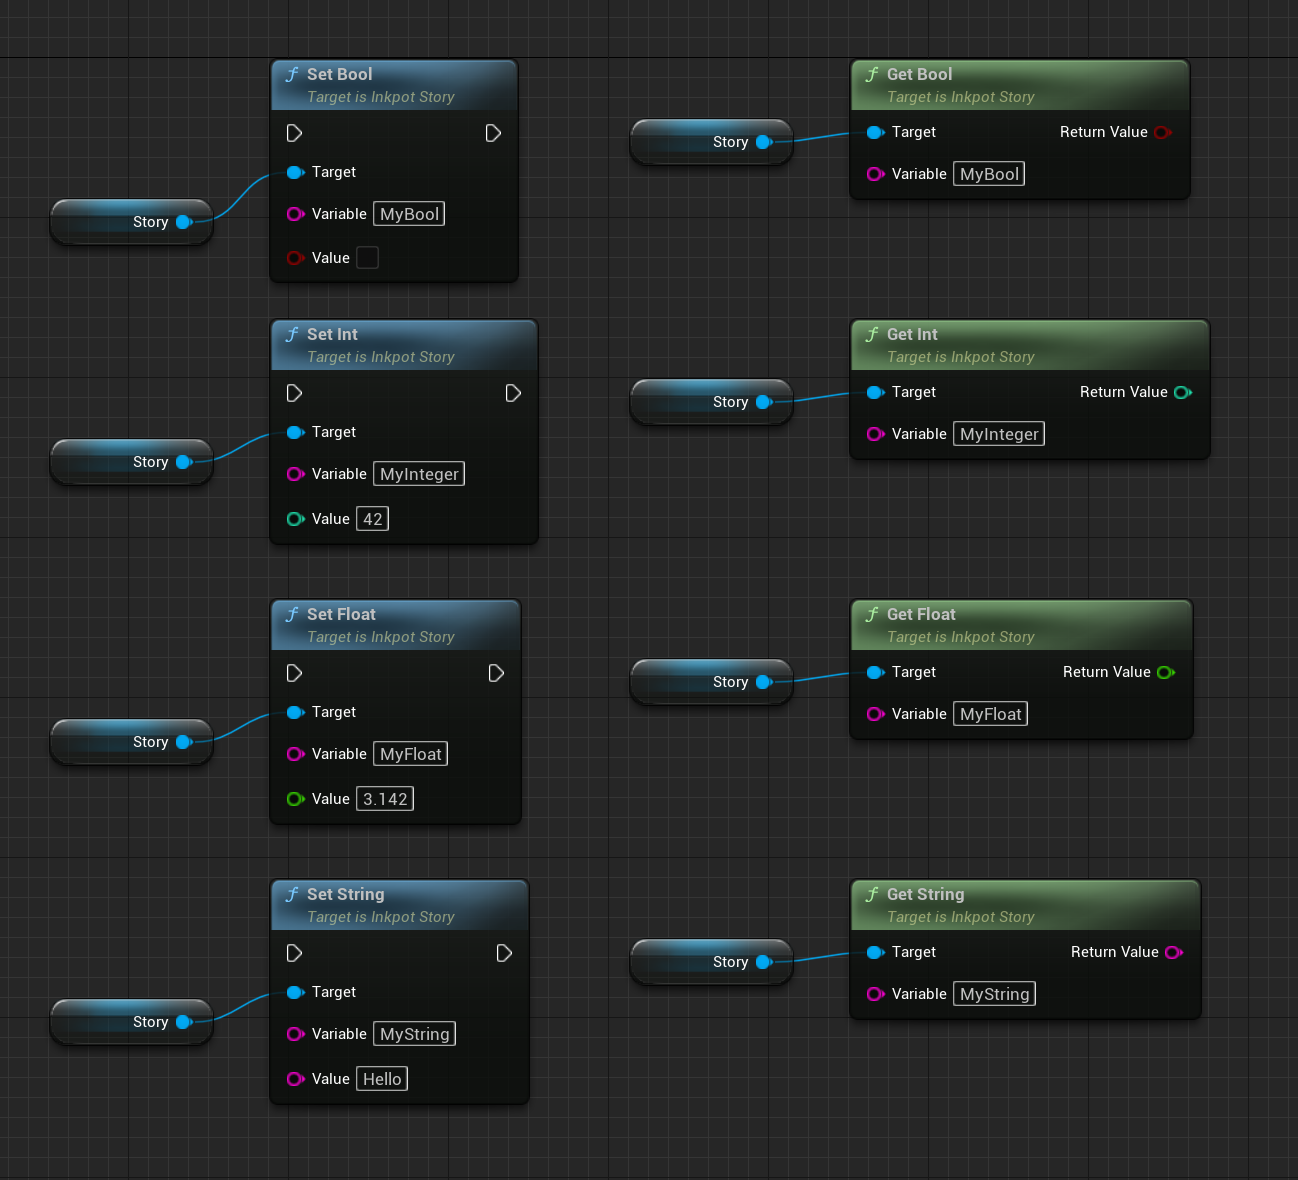
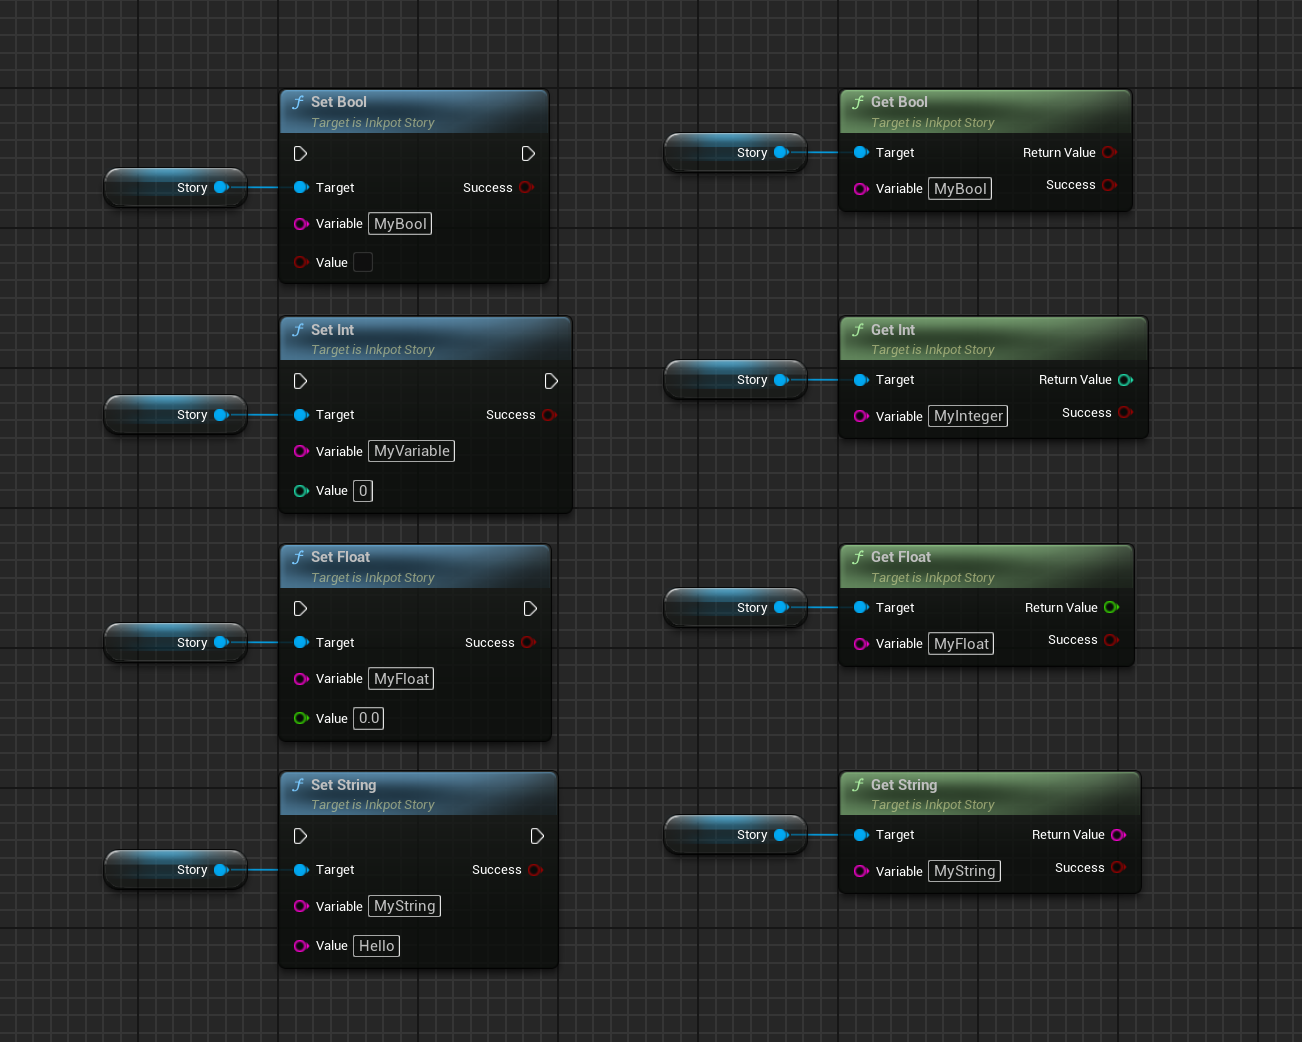
updated inkpot plugin, updated docs for new variable getters and setters

diff --git a/InkpotDemo/Plugins/Inkpot/Source/Inkpot/Private/Inkpot/InkpotStory.cpp b/InkpotDemo/Plugins/Inkpot/Source/Inkpot/Private/Inkpot/InkpotStory.cpp
@@ -229,81 +229,86 @@ int32 UInkpotStory::GetAliveFlowCount()
 	return count; 
 }
 
-void UInkpotStory::SetValue(const FString &InVariable, FInkpotValue InValue)
+void UInkpotStory::SetValue(const FString &InVariable, FInkpotValue InValue, bool &OutSuccess )
 {
 	TSharedPtr<Ink::FVariableState> variableState = StoryInternal->GetVariablesState();
-	variableState->SetVariable( InVariable, Ink::FValue::Create(**InValue) );
+	OutSuccess = variableState->SetVariable( InVariable, Ink::FValue::Create(**InValue) );
 }
 
-FInkpotValue UInkpotStory::GetValue(const FString &InVariable)
+void UInkpotStory::GetValue(const FString &InVariable, FInkpotValue &OutReturnValue, bool &OutSuccess )
 {
 	TSharedPtr<Ink::FVariableState> variableState = StoryInternal->GetVariablesState();
 	TSharedPtr<Ink::FObject> variableObj = variableState->GetVariable( InVariable );
 	TSharedPtr<Ink::FValue> variable = StaticCastSharedPtr<Ink::FValue>( variableObj );
 	Ink::FValueType value;
 	if(variable.IsValid())
+	{
 		value = variable->GetValueObject();
+		OutSuccess = true;
+	}
 	else
+	{
 		INKPOT_ERROR("Could not get value of variable '%s'", *InVariable );
-	return FInkpotValue(value);
+		OutSuccess = false;
+	}
+	OutReturnValue = FInkpotValue(value);
 }
 
-void UInkpotStory::SetBool(const FString &InVariable, bool bInValue)
+void UInkpotStory::SetBool(const FString &InVariable, bool bInValue, bool &OutSuccess )
 {
 	TSharedPtr<Ink::FVariableState> variableState = StoryInternal->GetVariablesState();
-	variableState->SetVariable( InVariable, MakeShared<Ink::FValueBool>( bInValue ) );
+	OutSuccess = variableState->SetVariable( InVariable, MakeShared<Ink::FValueBool>( bInValue ) );
 }
 
-bool UInkpotStory::GetBool(const FString &InVariable)
+void UInkpotStory::GetBool(const FString &InVariable, bool &OutReturnValue, bool &OutSuccess )
 {
-	bool rval;
-	bool success = GetVariable<bool, Ink::FValueBool>(InVariable, Ink::EValueType::Bool, rval );
-	return rval;
+	OutSuccess = GetVariable<bool, Ink::FValueBool>(InVariable, Ink::EValueType::Bool, OutReturnValue );
 }
 
-void UInkpotStory::SetInt(const FString &InVariable, int32 InValue)
+void UInkpotStory::SetInt(const FString &InVariable, int32 InValue, bool &OutSuccess )
 {
 	TSharedPtr<Ink::FVariableState> variableState = StoryInternal->GetVariablesState();
-	variableState->SetVariable( InVariable, MakeShared<Ink::FValueInt>( InValue ) );
+	OutSuccess = variableState->SetVariable( InVariable, MakeShared<Ink::FValueInt>( InValue ) );
 }
 
-int32 UInkpotStory::GetInt(const FString &InVariable)
+void UInkpotStory::GetInt(const FString &InVariable, int32 &OutValue ,  bool &OutSuccess )
 {
-	int32 rval;
-	bool success = GetVariable<int32, Ink::FValueInt>(InVariable, Ink::EValueType::Int, rval );
-	return rval;
+	OutSuccess = GetVariable<int32, Ink::FValueInt>(InVariable, Ink::EValueType::Int, OutValue );
 }
 
-void UInkpotStory::SetFloat(const FString &InVariable, float InValue )
+void UInkpotStory::SetFloat(const FString &InVariable, float InValue, bool &OutSuccess )
 {
 	TSharedPtr<Ink::FVariableState> variableState = StoryInternal->GetVariablesState();
-	variableState->SetVariable( InVariable, MakeShared<Ink::FValueFloat>(InValue));
+	OutSuccess = variableState->SetVariable( InVariable, MakeShared<Ink::FValueFloat>(InValue));
 }
 
-float UInkpotStory::GetFloat(const FString &InVariable)
+void UInkpotStory::GetFloat(const FString &InVariable, float &OutReturnValue, bool &OutSuccess )
 {
-	float rval;
-	bool success = GetVariable<float, Ink::FValueFloat>(InVariable, Ink::EValueType::Float, rval );
-	return rval;
+	OutSuccess = GetVariable<float, Ink::FValueFloat>(InVariable, Ink::EValueType::Float, OutReturnValue );
 }
 
-void UInkpotStory::SetString(const FString &InVariable, const FString &InValue )
+void UInkpotStory::SetString(const FString &InVariable, const FString &InValue, bool &OutSuccess )
 {
 	TSharedPtr<Ink::FVariableState> variableState = StoryInternal->GetVariablesState();
-	variableState->SetVariable( InVariable, MakeShared<Ink::FValueString>(InValue) );
+	OutSuccess = variableState->SetVariable( InVariable, MakeShared<Ink::FValueString>(InValue) );
 }
 
-FString UInkpotStory::GetString( const FString& InVariable )
+void UInkpotStory::GetString( const FString& InVariable, FString &OutReturnValue, bool &OutSuccess )
 {
-	FString rval;
-	bool success = GetVariable<FString, Ink::FValueString>(InVariable, Ink::EValueType::String, rval );
-	return rval;
+	OutSuccess = GetVariable<FString, Ink::FValueString>(InVariable, Ink::EValueType::String, OutReturnValue );
 }
 
-void UInkpotStory::SetEmpty(const FString &InVariable)
+void UInkpotStory::SetEmpty(const FString &InVariable, bool &OutSuccess )
 {
 	TSharedPtr<Ink::FVariableState> variableState = StoryInternal->GetVariablesState();
-	variableState->SetVariable( InVariable, MakeShared<Ink::FValue>() );
+	OutSuccess  = variableState->SetVariable( InVariable, MakeShared<Ink::FValue>() );
+}
+
+bool UInkpotStory::IsVariableDefined( const FString& InVariable )
+{
+	TSharedPtr<Ink::FVariableState> variableState = StoryInternal->GetVariablesState();
+	TSharedPtr<Ink::FObject> variable = variableState->GetVariable(  InVariable );
+	return variable.IsValid();
 }
 
 int32 UInkpotStory::GetVariableKeys( TArray<FString> &OutKeys )
@@ -773,3 +778,4 @@ void UInkpotStory::SetStorySeed( int Seed )
 {
 	StoryInternal->GetStoryState()->SetStorySeed( Seed );
 }
+

diff --git a/InkpotDemo/Plugins/Inkpot/Source/Inkpot/Public/Inkpot/InkpotStory.h b/InkpotDemo/Plugins/Inkpot/Source/Inkpot/Public/Inkpot/InkpotStory.h
@@ -91,37 +91,40 @@ public:
 	void ChoosePathString( const FString &Path, const TArray<FInkpotValue> &Values );
 
 	UFUNCTION(BlueprintCallable, Category="Inkpot|Story")
-	void SetValue(const FString &Variable, FInkpotValue Value);
+	void SetValue(const FString &Variable, FInkpotValue Value, bool &Success );
 
 	UFUNCTION(BlueprintCallable, Category="Inkpot|Story")
-	FInkpotValue GetValue(const FString &Variable);
+	void GetValue(const FString &Variable, FInkpotValue &ReturnValue, bool &Success );
 
 	UFUNCTION(BlueprintCallable, Category="Inkpot|Story")
-	void SetBool(const FString &Variable, bool bValue);
+	void SetBool(const FString &Variable, bool bValue, bool &Success );
 
 	UFUNCTION(BlueprintPure, Category="Inkpot|Story")
-	bool GetBool(const FString &Variable);
+	void GetBool(const FString &Variable, bool &ReturnValue, bool &Success );
 
 	UFUNCTION(BlueprintCallable, Category="Inkpot|Story")
-	void SetInt(const FString &Variable, int32 Value);
+	void SetInt(const FString &Variable, int32 Value, bool &Success );
 
 	UFUNCTION(BlueprintPure, Category="Inkpot|Story")
-	int32 GetInt(const FString &Variable);
+	void GetInt(const FString &Variable, int32 &ReturnValue, bool &Success );
 
 	UFUNCTION(BlueprintCallable, Category="Inkpot|Story")
-	void SetFloat( const FString& Variable, float Value );
+	void SetFloat( const FString& Variable, float Value, bool &Success );
 
 	UFUNCTION(BlueprintPure, Category="Inkpot|Story")
-	float GetFloat( const FString& Variable );
+	void GetFloat( const FString& Variable, float &ReturnValue, bool &Success );
 
 	UFUNCTION(BlueprintCallable, Category="Inkpot|Story")
-	void SetString( const FString& Variable, const FString& Value );
+	void SetString( const FString& Variable, const FString& Value, bool &Success );
 
 	UFUNCTION(BlueprintPure, Category="Inkpot|Story")
-	FString GetString( const FString& Variable );
+	void GetString( const FString& Variable, FString &ReturnValue, bool &Success );
 
 	UFUNCTION(BlueprintCallable, Category="Inkpot|Story")
-	void SetEmpty( const FString& Variable );
+	void SetEmpty( const FString& Variable, bool &Success );
+
+	UFUNCTION(BlueprintPure, Category="Inkpot|Story")
+	bool IsVariableDefined( const FString& Variable );
 
 	UFUNCTION(BlueprintCallable, Category="Inkpot|Story")
 	void SetOnVariableChange( UPARAM(DisplayName="Event") FOnInkpotVariableChange Delegate, const FString &Variable );

diff --git a/InkpotDemo/Plugins/Inkpot/Source/InkpotEditor/Private/Test/InkPlusPlusTest.cpp b/InkpotDemo/Plugins/Inkpot/Source/InkpotEditor/Private/Test/InkPlusPlusTest.cpp
@@ -937,7 +937,12 @@ bool FInkTests::RunTest(const FString& InkTestName)
 											int32 intValue;
 											if ((*setVariableObject)->TryGetNumberField(VARIABLE_VALUE, intValue))
 											{
-												story->SetInt(variableName, intValue);
+												bool success;
+												story->SetInt(variableName, intValue, success );
+												if (!success)
+												{
+													INKPOT_ERROR("%s : Unable to set integer variable %s.", *InkTestName, *variableName);
+												}
 											}
 										}
 										else if (variableType.Equals("Float"))
@@ -945,7 +950,12 @@ bool FInkTests::RunTest(const FString& InkTestName)
 											double floatValue;
 											if ((*setVariableObject)->TryGetNumberField(VARIABLE_VALUE, floatValue))
 											{
-												story->SetFloat( variableName, static_cast<float>(floatValue));
+												bool success;
+												story->SetFloat( variableName, static_cast<float>(floatValue), success);
+												if (!success)
+												{
+													INKPOT_ERROR("%s : Unable to set floating point variable %s.", *InkTestName, *variableName);
+												}
 											}
 										}
 										else if (variableType.Equals("String"))
@@ -953,7 +963,12 @@ bool FInkTests::RunTest(const FString& InkTestName)
 											FString stringValue;
 											if ((*setVariableObject)->TryGetStringField(VARIABLE_VALUE, stringValue))
 											{
-												story->SetString(variableName, stringValue);
+												bool success;
+												story->SetString(variableName, stringValue, success);
+												if (!success)
+												{
+													INKPOT_ERROR("%s : Unable to set string variable %s.", *InkTestName, *variableName);
+												}
 											}
 										}
 										else if (variableType.Equals("null"))
@@ -961,7 +976,12 @@ bool FInkTests::RunTest(const FString& InkTestName)
 											FString stringValue;
 											if ((*setVariableObject)->TryGetStringField(VARIABLE_VALUE, stringValue))
 											{
-												story->SetEmpty(variableName);
+												bool success;
+												story->SetEmpty(variableName, success );
+												if (!success)
+												{
+													INKPOT_ERROR("%s : Unable to unset variable %s.", *InkTestName, *variableName);
+												}
 											}
 										}
 									}

diff --git a/InkpotDemo/Plugins/Inkpot/Source/InkPlusPlus/Private/Ink/VariableState.cpp b/InkpotDemo/Plugins/Inkpot/Source/InkPlusPlus/Private/Ink/VariableState.cpp
@@ -90,27 +90,28 @@ TSharedPtr<Ink::FObject> Ink::FVariableState::GetVariable(const FString& Variabl
 }
 
 
-void Ink::FVariableState::SetVariable(const FString& VariableName, const TSharedPtr<Ink::FObject>& Value)
+bool Ink::FVariableState::SetVariable(const FString& VariableName, const TSharedPtr<Ink::FObject>& Value)
 {
 	if (!_defaultGlobalVariables.Contains(VariableName))
 	{
 		FObject::StoryException.Throw("Cannot assign to a variable (" + VariableName + ") that hasn't been declared in the story");
-		return;
+		return false;
 	}
 
 	if (!Value.IsValid())
 	{
 		UE_LOG(InkPlusPlus, Error, TEXT("Cannot pass null to VariableState"));
-		return;
+		return false;
 	}
 
 	if (!FObject::DynamicCastTo<Ink::FValue>(Value).IsValid())
 	{
 		UE_LOG(InkPlusPlus, Error, TEXT("Invalid value passed to VariableState : %s"), *Value->ToString());
-		return;
+		return false;
 	}
 
 	SetGlobal(VariableName, Value);
+	return true;
 }
 
 

diff --git a/InkpotDemo/Plugins/Inkpot/Source/InkPlusPlus/Public/Ink/VariableState.h b/InkpotDemo/Plugins/Inkpot/Source/InkPlusPlus/Public/Ink/VariableState.h
@@ -36,7 +36,7 @@ namespace Ink
 		void SetCallStack(TSharedPtr<Ink::FCallStack> CallStack);
 
 		TSharedPtr<Ink::FObject> GetVariable(const FString& VariableName);
-		void SetVariable(const FString& VariableName, const TSharedPtr<Ink::FObject>& Value);
+		bool SetVariable(const FString& VariableName, const TSharedPtr<Ink::FObject>& Value);
 
 		void ApplyPatch();
 		void SetJsonToken(const TMap<FString, TSharedPtr<FJsonValue>>& JsonToken);

diff --git a/README.md b/README.md
@@ -131,22 +131,29 @@ To allow conversion between the two there is a blueprint function library to con
 ![MakeInkpotValue](Documentation/MakeInkpotValue.png)
 
 Alternatively, values can be set directly through the InkpotStory object using one of the Set or Get functions.<br>
+These functions also report whether the variable exists in the script via the return parameter *Success*. 
 
-	void SetBool(const FString &Variable, bool bValue);
-	bool GetBool(const FString &Variable);
+	void SetBool(const FString &Variable, bool bValue, bool &Success );
+	void GetBool(const FString &Variable, bool &ReturnValue, bool &Success );
 
-	void SetInt(const FString &Variable, int32 Value);
-	int32 GetInt(const FString &Variable);
+	void SetInt(const FString &Variable, int32 Value, bool &Success );
+	void GetInt(const FString &Variable, int32 &ReturnValue, bool &Success );
 
-	void SetFloat( const FString& Variable, float Value );
-	float GetFloat( const FString& Variable );
+	void SetFloat( const FString& Variable, float Value, bool &Success );
+	void GetFloat( const FString& Variable, float &ReturnValue, bool &Success );
 
-	void SetString( const FString& Variable, const FString& Value );
-	FString GetString( const FString& Variable );
+	void SetString( const FString& Variable, const FString& Value, bool &Success );
+	void GetString( const FString& Variable, FString &ReturnValue, bool &Success );
 
 	void SetEmpty( const FString& Variable );
 
 ![StorySetNGet](Documentation/StorySetNGet.png)
+
+To check if a variable simply exists, call this function.<br>
+
+	bool IsVariableDefined( const FString& Variable );
+
+![VariableExists](Documentation/VariableExistence.png)
 
 
 ### Change notification
